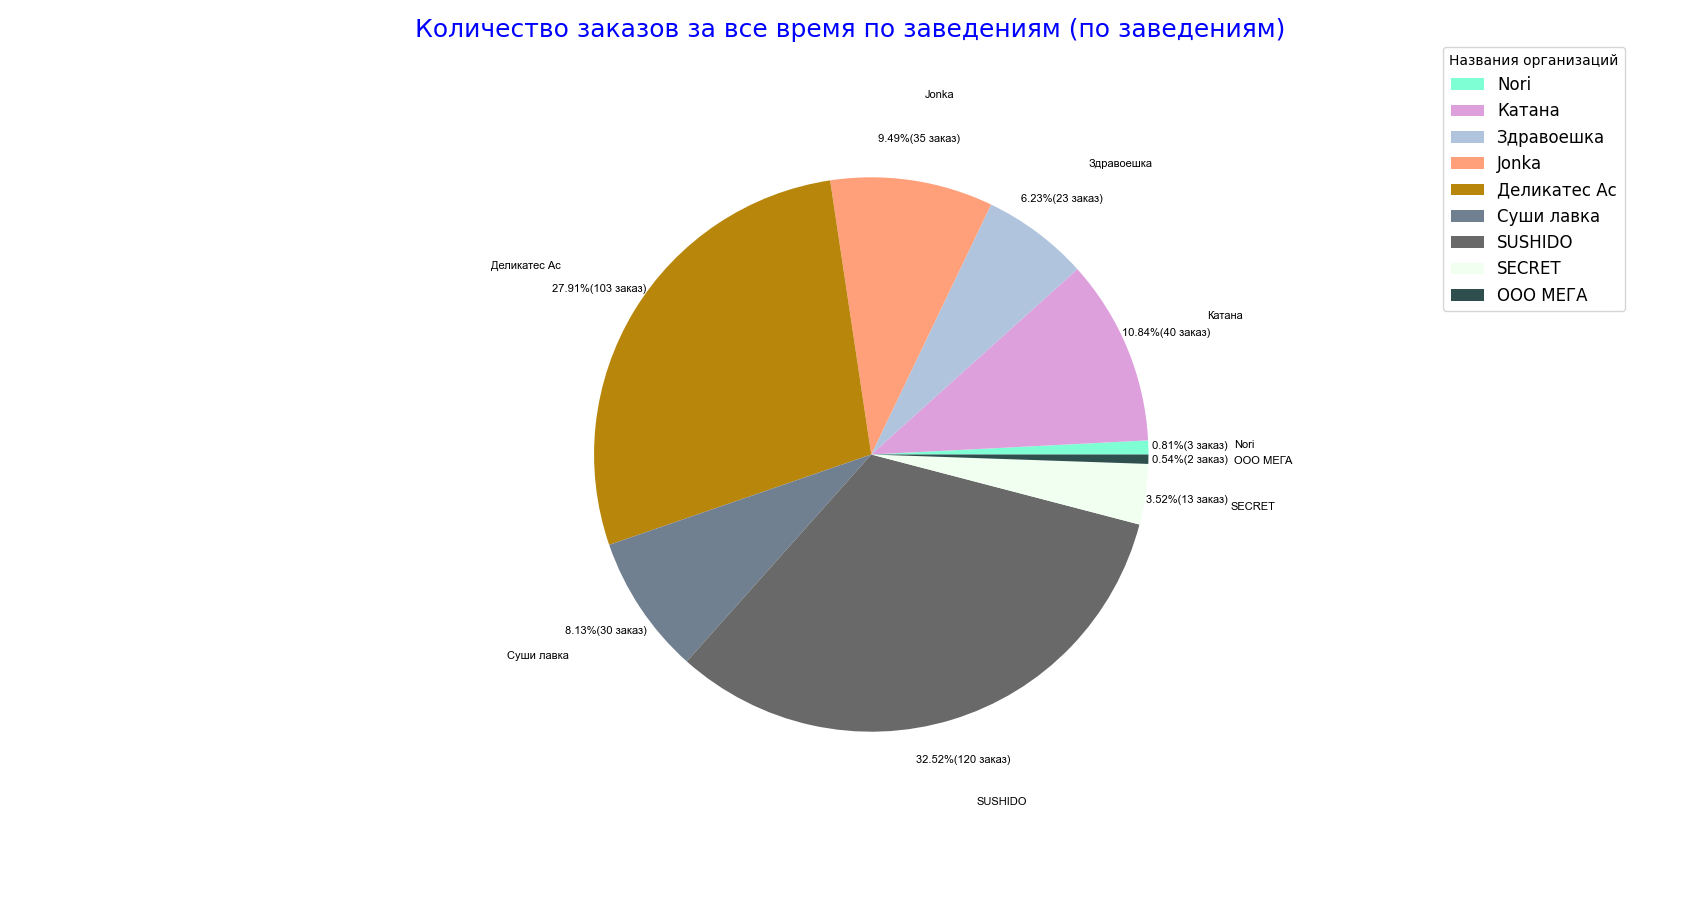
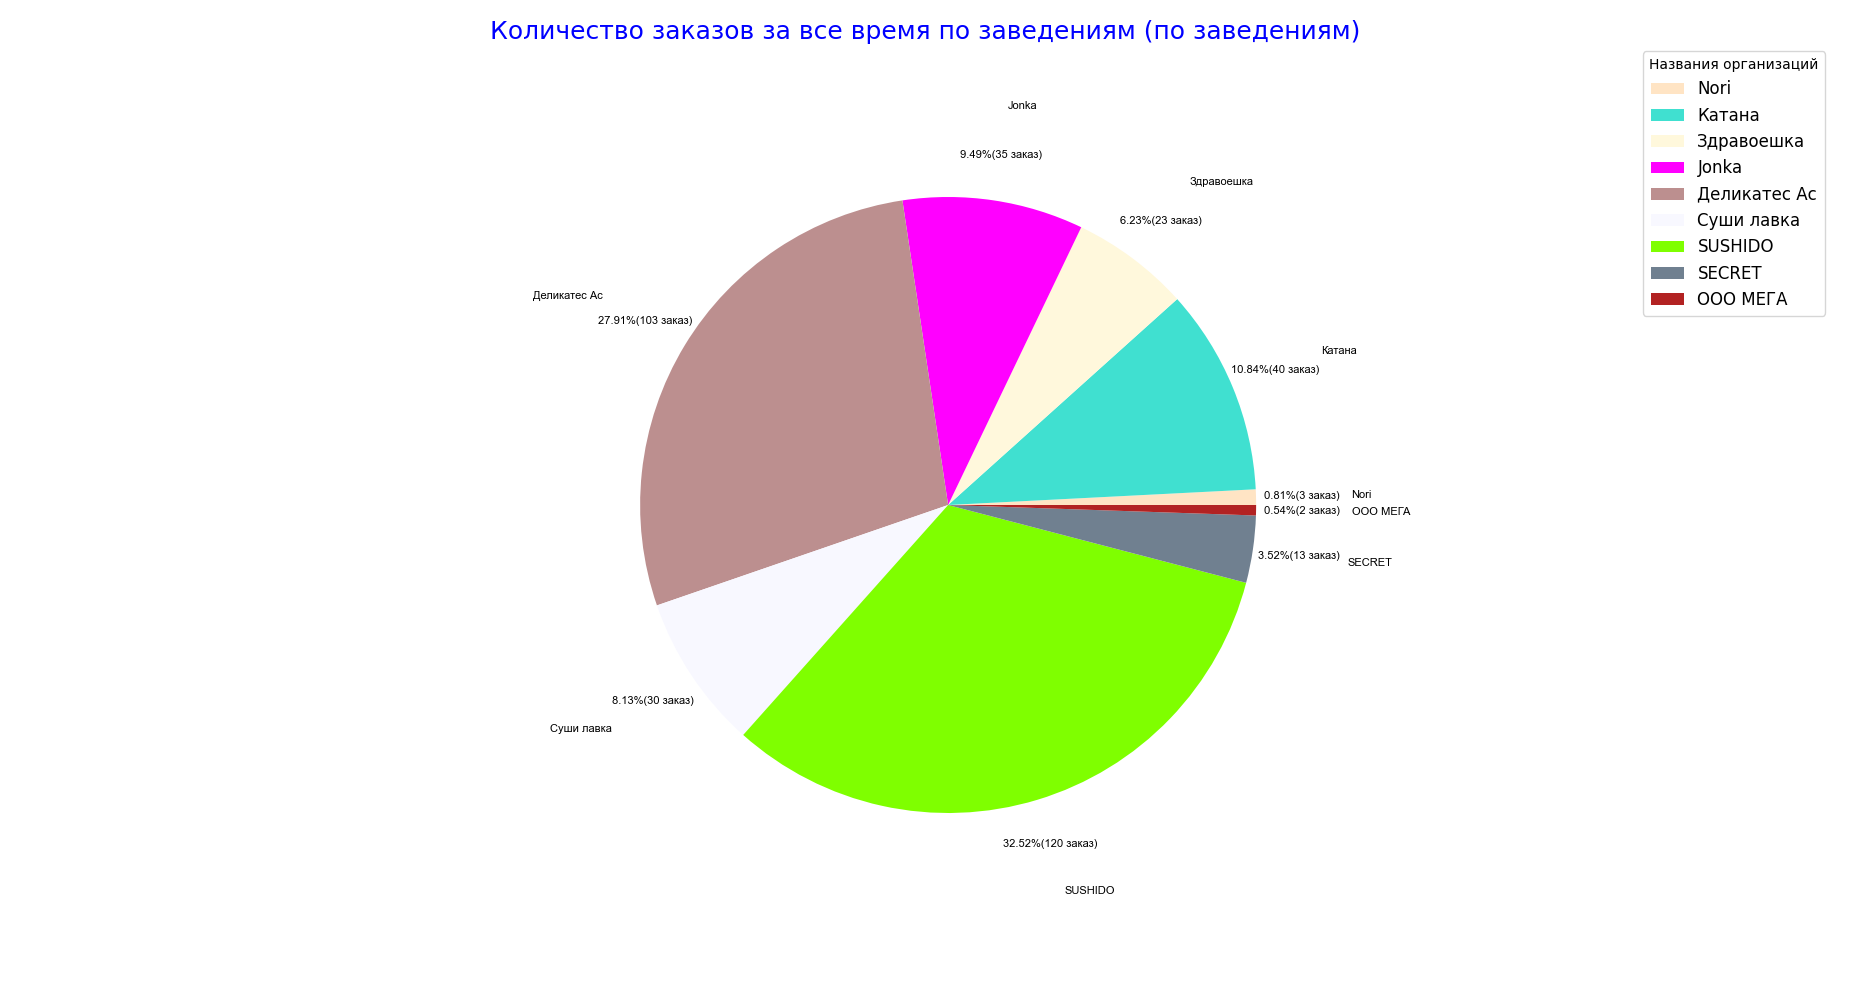
Fixed

diff --git a/templates/analytics_by_periods.html b/templates/analytics_by_periods.html
@@ -125,12 +125,12 @@ button {
 </script>
 </form>
 
-<h2>Количество заказов за период: {{total_orders}}</h2>
-
 <h2 style="color: red;"><center>{{resultt}}</center></h2>
-<img src='../static/period/Analytics_Total_number_of_orders.png'>
-<img src='../static/period/Analytics_Number_of_orders_by_organization.png'>
-<img src='../static/period/Number_of_orders_for_all_time_by_organization.png'>
+
+<h2>Количество заказов за период: {{total_orders}}</h2>
+<img src='../static/Analytics_Total_number_of_orders_by_period.png'>
+<img src='../static/Analytics_Number_of_orders_by_organization_by_period.png'>
+<img src='../static/Number_of_orders_for_all_time_by_organization_by_period.png'>
 
 <!--
 <h2>{{array_results}}</h2>

diff --git a/app/routers/analytics_by_periods.py b/app/routers/analytics_by_periods.py
@@ -139,7 +139,7 @@ def analytics_by_periods(request: Request, date1: Union[str, None] = Form(None),
             values.append(value)
             counts.append(key)
 
-        fig1 = plt.figure(figsize=(14.9, 7))
+        fig1 = plt.figure(figsize=(18.5, 10))
         plt.plot(values, counts)
         for a, b in zip(values, counts):
             plt.text(a, b, str(b))
@@ -147,7 +147,7 @@ def analytics_by_periods(request: Request, date1: Union[str, None] = Form(None),
         plt.xlabel('Дата', fontsize=14)
         plt.ylabel('Общее количество заказов', fontsize=14)
         plt.gcf().autofmt_xdate()
-        fig1.savefig('static/period/Analytics_Total_number_of_orders.png')
+        fig1.savefig('static/Analytics_Total_number_of_orders_by_period.png')
         plt.close()
 
         array_total = {}
@@ -216,7 +216,7 @@ def analytics_by_periods(request: Request, date1: Union[str, None] = Form(None),
         # Установить ширину полосы
         barWidth = 0.15
         # fig, ax = plt.subplots(figsize=(14.9, 7))
-        fig2 = plt.figure(figsize=(14.9, 7))
+        fig2 = plt.figure(figsize=(18.5, 10))
         # Установить положение стержня по оси X
         # br0 = np.arange(len(dates))
         for i in range(0, len(organisations)):
@@ -239,7 +239,7 @@ def analytics_by_periods(request: Request, date1: Union[str, None] = Form(None),
         plt.yticks(fontsize=10)
         plt.gcf().autofmt_xdate()
         plt.legend(fontsize=8)
-        fig2.savefig('static/period/Analytics_Number_of_orders_by_organization.png')
+        fig2.savefig('static/Analytics_Number_of_orders_by_organization_by_period.png')
 
         # Количество заказов за все время по заведениям (по заведениям)
         list_organizations_total_orders = []
@@ -268,7 +268,7 @@ def analytics_by_periods(request: Request, date1: Union[str, None] = Form(None),
 
         all_colors = [k for k, v in pltc.cnames.items()]
 
-        fig3 = plt.figure(figsize=(17, 9))
+        fig3 = plt.figure(figsize=(18.5, 10))
         plt.suptitle('Количество заказов за все время по заведениям (по заведениям)', fontsize=18, color='b')
 
         plt.pie(list_organizations_total_orders,
@@ -280,8 +280,8 @@ def analytics_by_periods(request: Request, date1: Union[str, None] = Form(None),
                 radius=1.0,
                 colors=sample(all_colors, len(list_organizations_total_orders))
                 )
-        plt.legend(loc="upper right", bbox_to_anchor=(1.6, 1.1), title="Названия организаций")
-        fig3.savefig('static/period/Number_of_orders_for_all_time_by_organization.png')
+        plt.legend(loc="upper right", bbox_to_anchor=(1.65, 1.1), title="Названия организаций")
+        fig3.savefig('static/Number_of_orders_for_all_time_by_organization_by_period.png')
 
         list_date_order = list(set(date_orders))
         list_date_orders = sorted([a for a in list_date_order])
@@ -292,9 +292,6 @@ def analytics_by_periods(request: Request, date1: Union[str, None] = Form(None),
         date_organisation = db.query(Order.date).filter(Order.unit_id != 1).filter(Order.unit_id != 2).filter(
             Order.unit_id != 3).all()
         date_organisations = sorted([a[0].strftime('%Y-%m-%d') for a in date_organisation])
-
-        print(date1)
-        print(date2)
 
     else:
         resultt = "Пожалуйста, выберите даты"

diff --git a/app/routers/analytics.py b/app/routers/analytics.py
@@ -106,7 +106,7 @@ def form_get(request: Request):
         values.append(value)
         counts.append(key)
 
-    fig1 = plt.figure(figsize=(14.9, 7))
+    fig1 = plt.figure(figsize=(18.5, 10))
     plt.plot(values, counts)
     for a, b in zip(values, counts):
         plt.text(a, b, str(b))
@@ -180,7 +180,7 @@ def form_get(request: Request):
     # Установить ширину полосы
     barWidth = 0.15
     # fig, ax = plt.subplots(figsize=(14.9, 7))
-    fig2 = plt.figure(figsize=(14.9, 7))
+    fig2 = plt.figure(figsize=(18.5, 10))
     # Установить положение стержня по оси X
     # br0 = np.arange(len(dates))
     for i in range(0, len(organisations)):
@@ -231,7 +231,7 @@ def form_get(request: Request):
 
     all_colors = [k for k, v in pltc.cnames.items()]
 
-    fig3 = plt.figure(figsize=(17, 9))
+    fig3 = plt.figure(figsize=(18.5, 10))
     plt.suptitle('Количество заказов за все время по заведениям (по заведениям)', fontsize=18, color='b')
 
     plt.pie(list_organizations_total_orders,
@@ -243,7 +243,7 @@ def form_get(request: Request):
             radius=1.0,
             colors=sample(all_colors, len(list_organizations_total_orders))
             )
-    plt.legend(loc="upper right", bbox_to_anchor=(1.6, 1.1), title="Названия организаций", fontsize=12)
+    plt.legend(loc="upper right", bbox_to_anchor=(1.65, 1.1), title="Названия организаций", fontsize=12)
     fig3.savefig('static/Number_of_orders_for_all_time_by_organization.png')
 
     list_date_order = list(set(date_orders))
